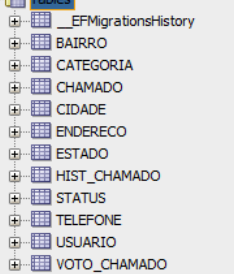
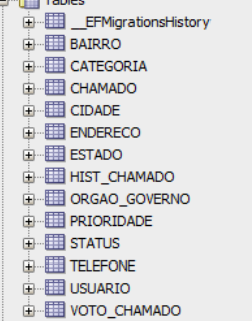
feat: Só add imagens que estavam faltando no readme

diff --git a/README.md b/README.md
@@ -161,12 +161,15 @@ Abaixo constam as capturas de tela reais do banco de dados Oracle 19c oficial da
 * **Tabela `TELEFONE`:** Contatos telefônicos vinculados aos usuários:  
   ![Tabela TELEFONE](docs/telefones.png)
 
-#### 3. Domínios de Catálogo e Estados
+#### 3. Domínios de Catálogo, Órgãos e Parametrizações
 * **Tabela `CATEGORIA`:** Tipologias oficiais de zeladoria com check constraints:  
   ![Tabela CATEGORIA](docs/categorias.png)
 * **Tabela `STATUS`:** Estados operacionais finitos (`PENDENTE` a `CONCLUIDO`):  
   ![Tabela STATUS](docs/status.png)
-
+* **Tabela `PRIORIDADE`:** Níveis de urgência de atendimento municipal:  
+  ![Tabela PRIORIDADE](docs/prioridades.png)
+* **Tabela `ORGAO_GOVERNO`:** Secretarias e departamentos municipais cadastrados:  
+  ![Tabela ORGAO_GOVERNO](docs/orgaos.png)
 #### 4. Estrutura Territorial e Resolução de Localidades
 * **Tabela `ENDERECO`:** Logradouros normalizados com CEP e ponto de referência:  
   ![Tabela ENDERECO](docs/enderecos.png)
